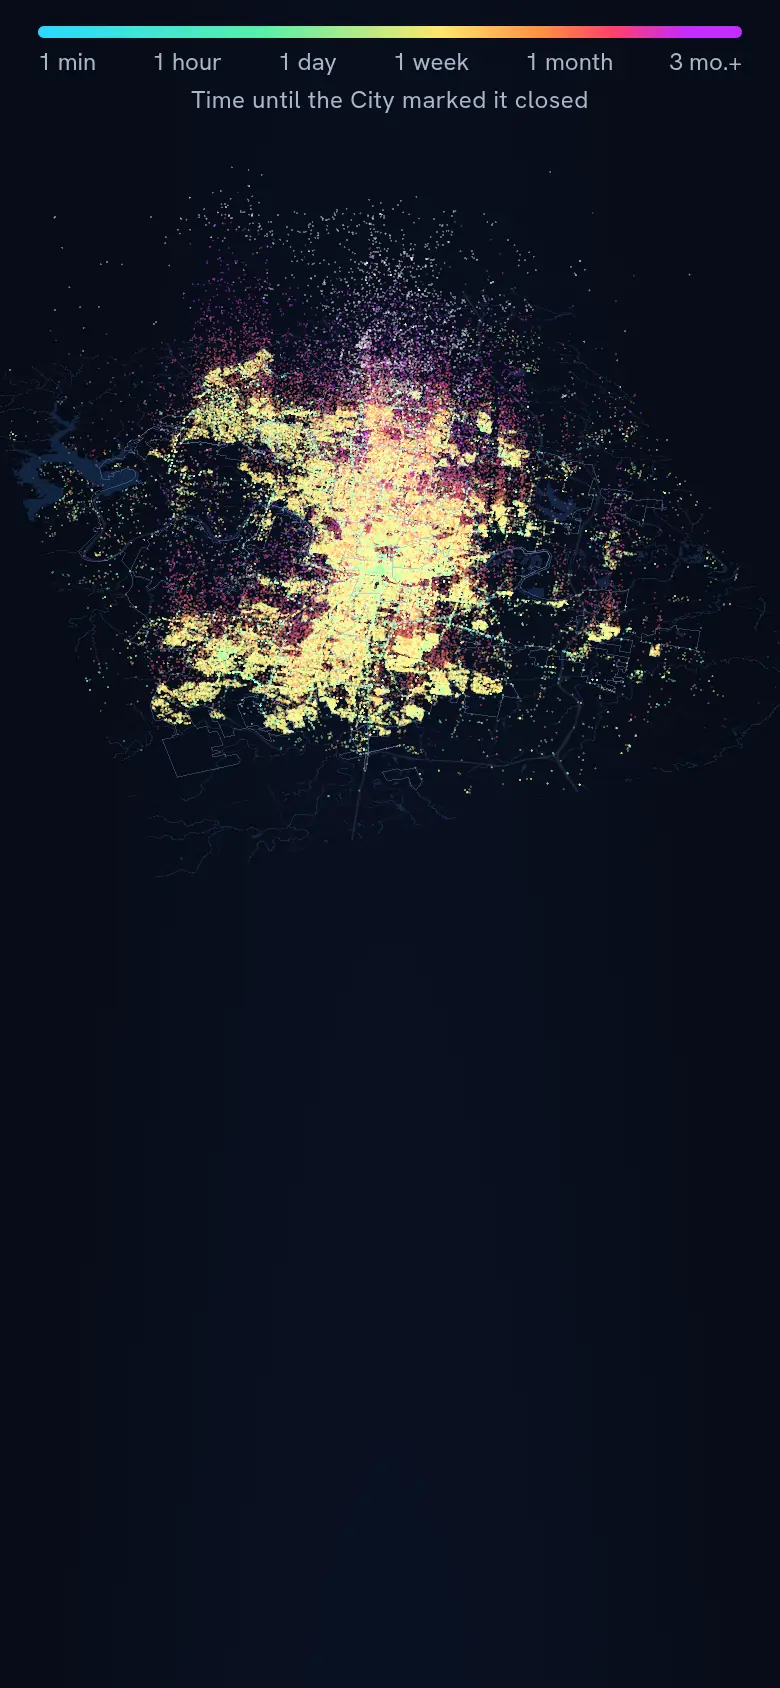
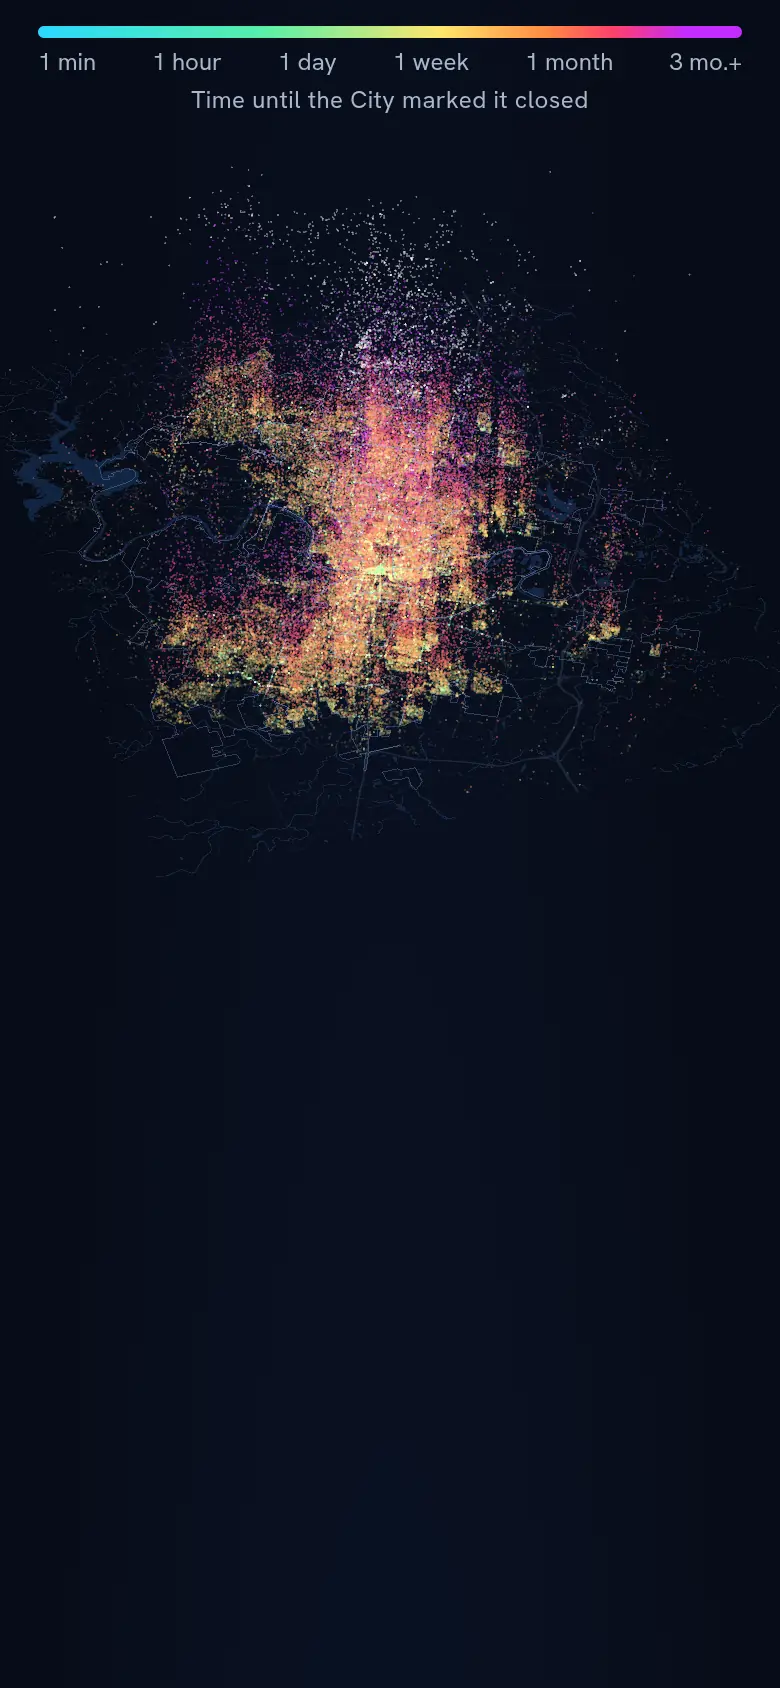
311 wait v2: load the graphic on first input, restore data-driven captions, clearer terrain and ring labels

diff --git a/src/css/wait-311.css b/src/css/wait-311.css
@@ -47,10 +47,10 @@ body:has(.w3) { overflow-x: clip; }
 .w3-lbl.is-rowtick { width: 2px; height: 10px; background: #fff; translate: -1px -100%; border-radius: 1px; box-shadow: 0 0 0 1px rgba(5, 8, 15, .8); }
 .w3-lbl.is-hour { translate: -50% -50%; }
 .w3-lbl.is-ringdate { translate: -50% -100%; font-size: .75rem; }
-.w3-lbl.is-mark { padding-left: 10px; translate: -4px -50%; color: #fff; font-size: .75rem; }
-.w3-lbl.is-mark::before { content: ""; position: absolute; left: 0; top: 50%; width: 7px; height: 7px; margin-top: -4px; border: 1.5px solid #fff; border-radius: 50%; }
-.w3-lbl.is-mark.is-left { padding: 0 10px 0 0; translate: calc(-100% + 4px) -50%; }
-.w3-lbl.is-mark.is-left::before { left: auto; right: 0; }
+.w3-lbl.is-mark { translate: 6px 3px; padding: 1px 5px; border-radius: 3px; background: rgba(6, 10, 22, .82); color: #fff; font-size: .75rem; }
+.w3-lbl.is-mark::before { content: ""; position: absolute; left: -9.5px; top: -6.5px; width: 7px; height: 7px; border: 1.5px solid #fff; border-radius: 50%; box-sizing: border-box; }
+.w3-lbl.is-mark.is-left { translate: calc(-100% - 6px) calc(-100% - 3px); }
+.w3-lbl.is-mark.is-left::before { left: auto; top: auto; right: -9.5px; bottom: -6.5px; }
 .w3-lbl.is-ringdate:not(.is-outer) { translate: -50% -50%; text-align: center; white-space: normal; width: 3.5rem; }
 .w3-lbl { z-index: 1; }
 .w3-lbl.is-pin { z-index: 0;  width: 14px; height: 14px; margin: -7px 0 0 -7px; border-radius: 50%; border: 2px solid #fff; background: var(--yel); box-shadow: 0 0 0 4px rgba(255, 230, 109, .3); opacity: 1; }

diff --git a/src/js/wait-311.js b/src/js/wait-311.js
@@ -8,6 +8,10 @@ import { run } from "./wait-311-scene.js";
 
 export * from "./wait-311-core.js";
 
+// The 1 MB of data and the GPU work wait for the reader's first scroll, touch, key or
+// mouse move, so the page paints and answers input first. The poster shows meanwhile.
+const INTENT = ["scroll", "wheel", "pointerdown", "pointermove", "touchstart", "keydown"];
+
 const root = typeof document === "undefined" ? null : document.getElementById("w3");
 if (root) start(root);
 
@@ -60,9 +64,22 @@ function start(root) {
   const ctx = { root, stage, canvas, gl, DATA, reduce, wide,
     labels: root.querySelector(".w3-labels"), hud: root.querySelector(".w3-hud"),
     getScene: () => stage.dataset.scene };
-  load(DATA.src)
+  onIntent(root, () => load(DATA.src)
     .then(async (data) => run({ ...ctx, data, prep: await prepare(data, DATA) }))
-    .catch((err) => { console.warn("wait-311:", err); fallback(root, "load-failed"); });
+    .catch((err) => { console.warn("wait-311:", err); fallback(root, "load-failed"); }));
+}
+
+function onIntent(root, begin) {
+  let started = false;
+  const go = () => {
+    if (started) return;
+    started = true;
+    for (const type of INTENT) removeEventListener(type, go);
+    begin();
+  };
+  for (const type of INTENT) addEventListener(type, go, { passive: true });
+  root.querySelector(".w3-replay")?.addEventListener("click", go);
+  if (scrollY > 0) go();
 }
 
 function youHtml(group, district) {

diff --git a/src/js/wait-311-shaders.js b/src/js/wait-311-shaders.js
@@ -47,7 +47,7 @@ vec4 place(float id) {
     // Only waits past about a week rise, so the slow places stand up as spikes.
     // In the terrain, requests closed within a week stay on the ground, dimmed.
     float z = uRise * pow(clamp((wn - 0.7) / 0.3, 0.0, 1.0), 1.5);
-    float ground = (id < 1.5 && z <= 0.0) ? 0.3 : 1.0;
+    float ground = (id < 1.5 && z <= 0.0) ? 0.12 : 1.0;
     return vec4(aMap, z, located ? ground : 0.0);
   }
   if (id < 2.5) { // the pile of every request by wait
